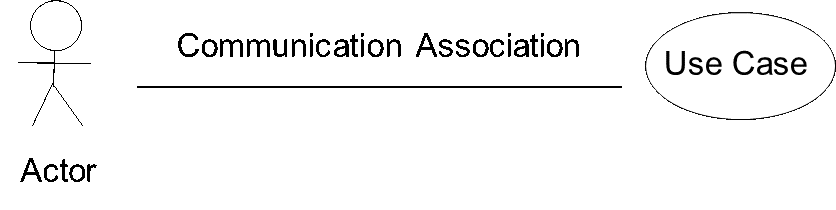
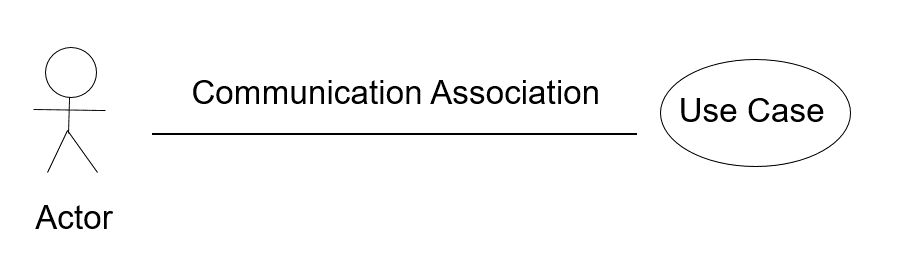
Version 7
Making all images model

diff --git a/source/njk/SystemDesigns_2.html b/source/njk/SystemDesigns_2.html
@@ -101,13 +101,15 @@
 	          <li>The system boundary defines the scope of the system, what the system does but not how it does it.</li>
 	          <li>Use-cases describes a set of sequences of actions, which include variants that the system performs to yield an observable value to an actor</li>
 	          <li>Actor represents the role that someone might be playing (not a particular individual). These are external entities that has an interest in interacting with the system</li>
-	          <li>Interaction is a form of interaction between the actor and a use case.</li>
-          <img src= "../img/UseCaseDiagram.png" alt= "Use Case Diagram">
+	          <li>Interaction is a form of interaction between the actor and a use case.</li><br>
+					<img src="../img/UseCaseDiagram.png" style="width:200px" onclick="openModal();currentSlide(1)" class="hover-shadow cursor"><br>
+        	<!--<img src= "../img/UseCaseDiagram.png" alt= "Use Case Diagram">-->
 				</div>
 				<button class="section">Use Case Description</button>
 				<div class="panel">
-	        <p>Below a Use Case Description is presented. There are explanations of what to include for each of the titles.</p>
-	        <img src= "../img/UseCaseDescription.png" alt= "Use Case Description" style="padding-left:90px;padding-bottom:20px;">
+	        <p>Below a Use Case Description is presented. There are explanations of what to include for each of the titles.</p><br>
+					<img src="../img/UseCaseDescription.png" style="width:450px" onclick="openModal();currentSlide(2)" class="hover-shadow cursor"><br><br>
+					<!--<img src= "../img/UseCaseDescription.png" alt= "Use Case Description" style="padding-left:90px;padding-bottom:20px;">-->
 				</div>
 				<button class="section">Relationship notation for Use Case Diagram</button>
 				<div class="panel">
@@ -117,28 +119,67 @@
 	            <th>1. Association </th>
 	          </tr>
 	          <tr>
-	            <td><img src= "../img/association.png" alt= "Association" style="height:100px;padding-left:20px;padding-bottom:20px;"></td>
+	            <td><img src="../img/association.png" alt= "Association" style="width:250px;" onclick="openModal();currentSlide(3)" class="hover-shadow cursor"></td>
 	          </tr>
 	          <tr>
 	            <th>2. Include: can only occur between two use cases </th>
 	          </tr>
 	          <tr>
-	            <td><img src= "../img/include.png" alt= "Include" style="height:100px;padding-left:20px;padding-bottom:20px;"></td>
+	            <td><img src="../img/include.png" alt= "Association" style="width:250px;" onclick="openModal();currentSlide(4)" class="hover-shadow cursor"></td>
 	          </tr>
 	          <tr>
 	            <th>3. Extent: can only occur between two use cases </th>
 	          </tr>
 	          <tr>
-	            <td><img src= "../img/extend.png" alt= "Extend" style="height:100px;padding-left:20px;padding-bottom:20px;"></td>
+	            <td><img src="../img/extend.png" alt= "Association" style="width:250px;" onclick="openModal();currentSlide(5)" class="hover-shadow cursor"></td>
 	          </tr>
 	          <tr>
 	            <th>4. Generalisation  </th>
 	          </tr>
 	          <tr>
-	            <td><img src= "../img/generalisation.png" alt= "Generalisation" style="height:200px;padding-left:20px;padding-bottom:20px;"></td>
+	            <td><img src="../img/generalisation.png" alt= "Association" style="width:200px;" onclick="openModal();currentSlide(6)" class="hover-shadow cursor"></td>
 	          </tr>
 	        </table>
 				</div>
+
+
+				<div id="myModal" class="modal">
+					<span class="close cursor" onclick="closeModal()">&times;</span>
+					<div class="modal-content">
+
+						<div class="mySlides">
+							<div class="numbertext"></div>
+							<img src="../img/UseCaseDiagram.png" style="width:50%">
+						</div>
+
+						<div class="mySlides">
+							<div class="numbertext"></div>
+							<img src="../img/UseCaseDescription.png" style="width:70%">
+						</div>
+
+						<div class="mySlides">
+							<div class="numbertext"></div>
+							<img src="../img/association.png" style="width:70%">
+						</div>
+
+						<div class="mySlides">
+							<div class="numbertext"></div>
+							<img src="../img/include.png" style="width:70%">
+						</div>
+
+						<div class="mySlides">
+							<div class="numbertext"></div>
+							<img src="../img/extend.png" style="width:70%">
+						</div>
+
+						<div class="mySlides">
+							<div class="numbertext"></div>
+							<img src="../img/generalisation.png" style="width:50%">
+						</div>
+
+					</div>
+				</div>
+
 	</div>
 
 	<!-- Section of the pagination -->

diff --git a/source/njk/ProjectManagement.html b/source/njk/ProjectManagement.html
@@ -119,9 +119,20 @@
 	            <li>The project is completed on time </li>
 	            <li>The project is within the agreed budget</li><br>
 	          </ul>
-	          <img src= "../img/irontriangle.png" alt= "The Iron Triangle" width="250px">
+	          <img src="../img/irontriangle.png" alt= "The Iron Triangle" style="width:250px;" onclick="openModal();currentSlide(1)" class="hover-shadow cursor">
 	        </li>
 	      </ul>
+
+				<div id="myModal" class="modal">
+					<span class="close cursor" onclick="closeModal()">&times;</span>
+					<div class="modal-content">
+
+						<div class="mySlides">
+							<div class="numbertext"></div>
+							<img src="../img/irontriangle.png" style="width:50%">
+						</div>
+					</div>
+				</div>
   	</div>
 
 		<!-- Recap Test Section-->
@@ -193,6 +204,46 @@
 			else {
 				x.style.display = "none";
 			}
+	}
+	</script>
+
+	<!-- Script for open and closing image maodel-->
+	<script>
+	function openModal() {
+		document.getElementById('myModal').style.display = "block";
+	}
+
+	function closeModal() {
+		document.getElementById('myModal').style.display = "none";
+	}
+
+	var slideIndex = 1;
+	showSlides(slideIndex);
+
+	function plusSlides(n) {
+		showSlides(slideIndex += n);
+	}
+
+	function currentSlide(n) {
+		showSlides(slideIndex = n);
+	}
+
+	function showSlides(n) {
+		var i;
+		var slides = document.getElementsByClassName("mySlides");
+		var dots = document.getElementsByClassName("demo");
+		var captionText = document.getElementById("caption");
+		if (n > slides.length) {slideIndex = 1}
+		if (n < 1) {slideIndex = slides.length}
+		for (i = 0; i < slides.length; i++) {
+				slides[i].style.display = "none";
+		}
+		for (i = 0; i < dots.length; i++) {
+				dots[i].className = dots[i].className.replace(" active", "");
+		}
+		slides[slideIndex-1].style.display = "block";
+		dots[slideIndex-1].className += " active";
+		captionText.innerHTML = dots[slideIndex-1].alt;
 	}
 	</script>
 

diff --git a/source/njk/SystemDesigns_6.html b/source/njk/SystemDesigns_6.html
@@ -176,13 +176,13 @@
 		<button class="section">Compiler components example</button>
 		<div class="panel">
 			<p>An example of Compiler components can be seen below </p>
-			<img src="../img/compiler.png" style="width:200px" onclick="openModal();currentSlide(9)" class="hover-shadow cursor">
+			<img src="../img/compiler.png" style="width:450px" onclick="openModal();currentSlide(9)" class="hover-shadow cursor">
 			<!--<img src="../img/compiler.png"style="width:500px;padding-left:20px;padding-bottom:20px;">-->
 		</div>
 		<button class="section">'OrderFulfillment' components example</button>
 		<div class="panel">
 			<p>Another example, where it shows the 'OrderFulfillment' components. Here you can see the use of the different types of connectors </p>
-			<img src="../img/orderFulfillment.png" style="width:200px" onclick="openModal();currentSlide(10)" class="hover-shadow cursor">
+			<img src="../img/orderFulfillment.png" style="width:450px" onclick="openModal();currentSlide(10)" class="hover-shadow cursor"> <br><br>
 			<!--<img src="../img/orderFulfillment.png"style="width:500px;padding-left:20px;padding-bottom:20px;">-->
 		</div>
 	</div>

diff --git a/source/njk/SystemDesigns_4.html b/source/njk/SystemDesigns_4.html
@@ -123,7 +123,7 @@
 				<img src="../img/CRC-book.png" style="width:200px" onclick="openModal();currentSlide(2)" class="hover-shadow cursor">
 				<!--<img src="../img/CRC-book.png"style="width:500px;padding-left:20px;padding-bottom:20px;">-->
 				<p><br>CRC for 'updateAvaCopies’ operation' </p>
-				<img src="../img/CRC-book.update.png" style="width:200px" onclick="openModal();currentSlide(3)" class="hover-shadow cursor">
+				<img src="../img/CRC-book.update.png" style="width:200px" onclick="openModal();currentSlide(3)" class="hover-shadow cursor"><br><br>
 				<!--<img src="../img/CRC-book.update.png"style="width:500px;padding-left:20px;padding-bottom:20px;">-->
 			</div>
 			<div id="myModal" class="modal">

diff --git a/source/njk/SystemDesigns_5.html b/source/njk/SystemDesigns_5.html
@@ -165,7 +165,7 @@
 			<button class="section">Sequence Diagram Example</button>
 			<div class="panel">
 				<p>An example of Sequence Diagram</p>
-				<img src="../img/SequenceDiagram.png" style="width:200px" onclick="openModal();currentSlide(10)" class="hover-shadow cursor">
+				<img src="../img/SequenceDiagram.png" style="width:450px" onclick="openModal();currentSlide(10)" class="hover-shadow cursor"><br><br>
 				<!--<img src="../img/SequenceDiagram.png"style="width:500px;padding-left:20px;padding-bottom:20px;">-->
 			</div>
 		</div>
